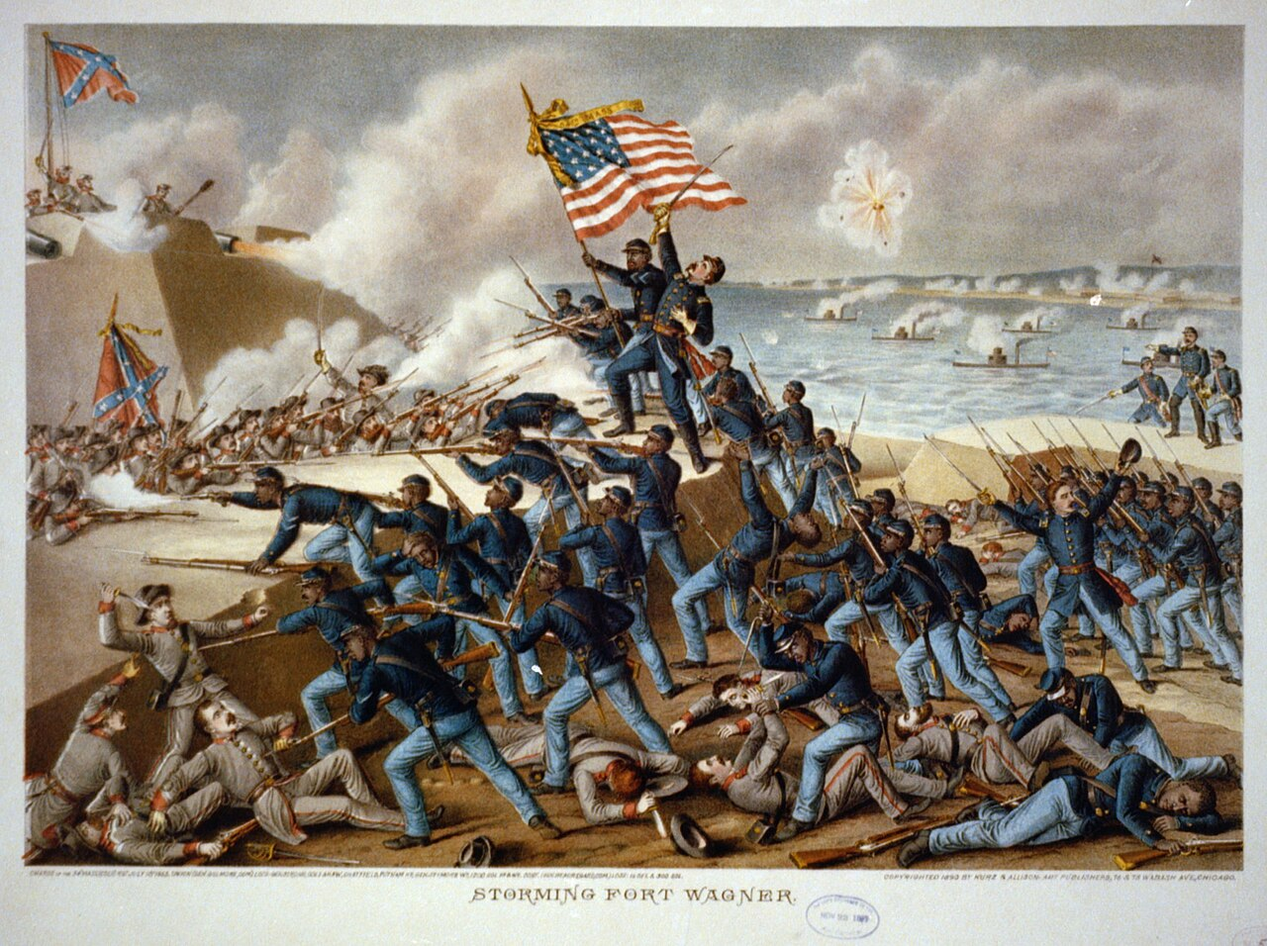
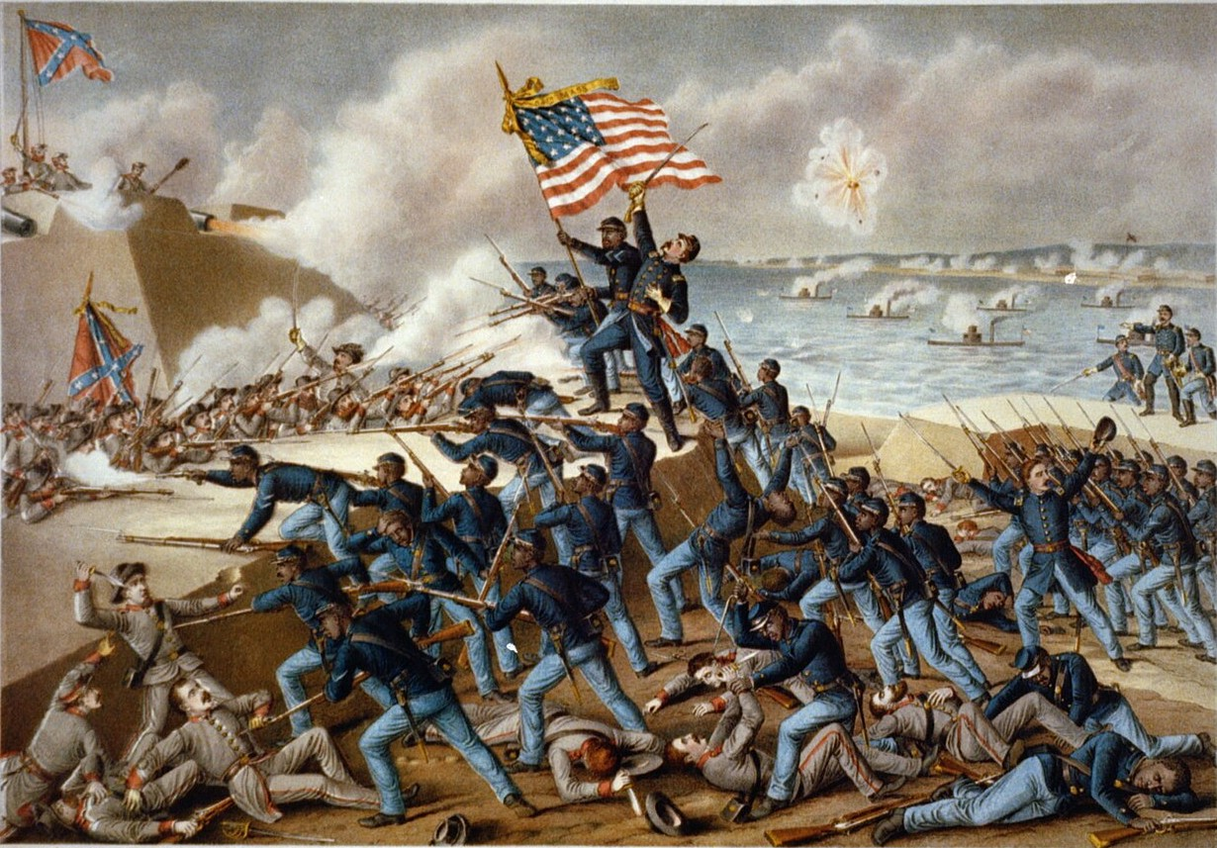
War UI + breadcrumb pass + drop in-prose [VERIFY] markers + war-build standard
- Remove 3 inline [VERIFY] editor notes that were shipping to readers
  (guerrilla-war Fort Pillow, war-within-north McClellan + Lincoln quotes);
  prose already paraphrased, the bracket was an author reminder.
- Fix slavery-cotton smart-quote delimiters that broke the build.
- ACW home: search input 16px (stop iOS focus-zoom); crop the Storming Fort
  Wagner hero to the bare painting (drop the cream mat + title, match F&I).
- Breadcrumb (all wars, config-driven): theatre rungs link to the war home
  with that theatre selected + scrolled (not the first battle); underline link
  entries; tint the war-name + theatre-name rungs/options their identity colour.
- audits/war-build-standard.md: one consolidated "how a war is built" doc.

diff --git a/src/app/war-civil-war/off-the-battlefield/war-within-north/page.tsx b/src/app/war-civil-war/off-the-battlefield/war-within-north/page.tsx
@@ -88,7 +88,7 @@ const NARR: Record<string, Narr> = {
       { p: `The Democrats, scenting a winnable election against an unpopular wartime president, gathered in Chicago at the end of August 1864 and promptly nominated themselves into a contradiction they could not escape.` },
       { p: `The convention met from August 29 to 31. Its platform (the official statement of what the party stood for) contained a peace plank (a single specific position within that larger platform) that was, in effect, a Copperhead document, written by Vallandigham himself, who had slipped back from exile and was now a force on the convention floor. The plank's decisive clause declared the war a failure outright:` },
       { p: `"...after four years of failure to restore the Union by the experiment of war... justice, humanity, liberty, and the public welfare demand that immediate efforts be made for a cessation of hostilities..."`, q: true },
-      { p: `The Democrats had, on paper, committed themselves to declaring the war a failure and seeking an immediate cease-fire. And then they nominated, to run on that platform, a man who did not believe a word of it: **George B. McClellan**, Democrat and former Union general. "Little Mac" had commanded the Army of the Potomac (the Union's main army in the Eastern theater, the force charged with taking Richmond and ending the war in the East), and had been a genuine popular favorite among the troops before Lincoln relieved him for chronic slowness. His running mate was George H. Pendleton of Ohio, a peace man. The contradiction was glaring and fatal: McClellan was a *War* Democrat, a man who wanted to keep fighting until the Union was restored, running on a platform that called the war a failure and demanded it stop. McClellan tried to resolve it the only way he could, by publicly rejecting (repudiating) his own platform: in his acceptance letter he refused the peace plank, insisting the Union must be preserved and that he could not tell the soldiers who had bled that their sacrifices had been in vain. [VERIFY exact wording of McClellan's acceptance letter before any verbatim quotation.] The result was a ticket at war with itself, a peace platform topped by a war candidate, which is a hard thing to sell to voters trying to decide one clear question.` },
+      { p: `The Democrats had, on paper, committed themselves to declaring the war a failure and seeking an immediate cease-fire. And then they nominated, to run on that platform, a man who did not believe a word of it: **George B. McClellan**, Democrat and former Union general. "Little Mac" had commanded the Army of the Potomac (the Union's main army in the Eastern theater, the force charged with taking Richmond and ending the war in the East), and had been a genuine popular favorite among the troops before Lincoln relieved him for chronic slowness. His running mate was George H. Pendleton of Ohio, a peace man. The contradiction was glaring and fatal: McClellan was a *War* Democrat, a man who wanted to keep fighting until the Union was restored, running on a platform that called the war a failure and demanded it stop. McClellan tried to resolve it the only way he could, by publicly rejecting (repudiating) his own platform: in his acceptance letter he refused the peace plank, insisting the Union must be preserved and that he could not tell the soldiers who had bled that their sacrifices had been in vain. The result was a ticket at war with itself, a peace platform topped by a war candidate, which is a hard thing to sell to voters trying to decide one clear question.` },
       { h: `Atlanta, the soldier vote, and 212 to 21`, eyebrow: `Turning point` },
       { fig: '/war-img/war-within-north-soldiers-voting.jpg', cap: `The most remarkable vote of the whole election. Pennsylvania soldiers of the Army of the James line up outside their tents to cast ballots in November 1864 — the army that could have ended Lincoln's power simply by voting him out instead chose, overwhelmingly, to keep the man sending it into battle. 1864 was the first U.S. election with widespread field voting, and the men with the most reason to be sick of the war re-elected the man waging it.`, credit: `William Waud · wood engraving, *Harper's Weekly* · 1864 · Library of Congress, Prints & Photographs Division (via Wikimedia Commons) · public domain` },
       { p: `And then, within days of the Democrats adopting a platform that declared the war a failure, the war stopped looking like a failure.` },
@@ -99,7 +99,7 @@ const NARR: Record<string, Narr> = {
       { p: `McClellan carried only three states, Kentucky, Delaware, and New Jersey, for 21 electoral votes against Lincoln's 212. Turnout ran near 74 percent of eligible voters, an astonishing figure for a country at war with itself. And the milestones stacked up: Lincoln was the first president reelected since Andrew Jackson in 1832, the first Northern president ever reelected, and the winner of the first wartime presidential election since 1812. The republic had looked its incumbent in the eye in the middle of a civil war and chosen to keep him. The sealed envelope Lincoln had pressed on his cabinet back in the worst of August, the one that began "it seems exceedingly probable that this Administration will not be re-elected," turned out to be the private record of a defeat that never came.` },
       { h: `What the ballot box proved`, eyebrow: `Consequence` },
       { p: `Step back from the vote counts, because the deepest fact about the election of 1864 is not who won. It is that it happened at all.` },
-      { p: `In the middle of the bloodiest war in its history, a republic held a free, contested, regularly scheduled presidential election. There was a real opposition party. There was a peace platform openly calling the war a failure. There were anti-administration newspapers. There was an incumbent who fully expected to be thrown out, who had quietly pledged in a sealed envelope to accept the result and hand over power, and who held the election *on schedule* when postponing it under emergency powers would have been the easiest thing in the world to justify. The army voted and went back to its camps. The losing side conceded. Lincoln himself, the day after the result was clear, framed what had just been tested: whether a government of the people could sustain a great national election in the middle of a great civil war, and whether such a government was strong enough to maintain its own existence without being too strong for the liberties of its people. [VERIFY exact wording from the *Collected Works*, Response to a Serenade, November 10, 1864, before any verbatim quotation.] That question had now been answered in the affirmative, narrowly, and at a cost, but answered.` },
+      { p: `In the middle of the bloodiest war in its history, a republic held a free, contested, regularly scheduled presidential election. There was a real opposition party. There was a peace platform openly calling the war a failure. There were anti-administration newspapers. There was an incumbent who fully expected to be thrown out, who had quietly pledged in a sealed envelope to accept the result and hand over power, and who held the election *on schedule* when postponing it under emergency powers would have been the easiest thing in the world to justify. The army voted and went back to its camps. The losing side conceded. Lincoln himself, the day after the result was clear, framed what had just been tested: whether a government of the people could sustain a great national election in the middle of a great civil war, and whether such a government was strong enough to maintain its own existence without being too strong for the liberties of its people. That question had now been answered in the affirmative, narrowly, and at a cost, but answered.` },
       { p: `And the cost matters. The same North that held that election had also suspended habeas corpus, arrested more than thirteen thousand civilians by military authority, tried civilians before panels of army officers, banished a congressman into the enemy's country for a speech, and shut down a major newspaper. Those things really happened, and the case against them was not paranoid. But the same government also reversed its own worst suppression when the *Chicago Times* was shut down, pulled its general back from imprisoning Vallandigham, and ultimately submitted the whole military-commission practice to the cold judgment of the Supreme Court, which curbed it in *Milligan*. So the honest verdict is a paradox, and the right move is to sit with it rather than resolve it cheaply. The war tested whether a democracy could survive both fierce internal dissent *and* a wartime election without hardening into a dictatorship. It did genuine damage to its own liberties in the testing. And it passed, narrowly, imperfectly, and without ever quite settling the argument about how close it came.` },
     ],
     meanwhile: {

diff --git a/src/app/war-civil-war/off-the-battlefield/guerrilla-war/page.tsx b/src/app/war-civil-war/off-the-battlefield/guerrilla-war/page.tsx
@@ -32,7 +32,7 @@ const NARR: Record<string, Narr> = {
       { fig: '/war-img/guerrilla-war-forrest.jpg', cap: `Major General Nathan Bedford Forrest — a Memphis slave trader before the war, a commissioned Confederate cavalry general during it. The man who commanded at Fort Pillow was no outlaw in the brush; he was regular army, which is exactly what makes the killing there so hard to explain away. A witness from his own command said Forrest gave the order to shoot the surrendering men down; Forrest denied it; the question has never closed. What is not in question is what he became after the war.`, credit: `Unidentified photographer · photograph · before 1877 · Wikimedia Commons · public domain` },
       { p: `On the afternoon of April 12, 1864, on a bluff above the Mississippi River in Lauderdale County, Tennessee, about 40 miles (64 km) north of Memphis, the irregular war's defining cruelty was committed by a regular army, in broad daylight, and the nation got its emblem of what no quarter against Black men looked like. The place was **Fort Pillow.**` },
       { p: `Set the scene. The fort sat on high ground over the river and was held by a Union **garrison** (the body of troops stationed to defend a fixed position) of roughly 600 men, and that garrison's makeup is the whole story of the day. About half of it was Black: a battalion of the 6th U.S. Colored Heavy Artillery and a section of the 2nd U.S. Colored Light Artillery, men of the **United States Colored Troops** (the federal regiments of Black soldiers, most of them recently escaped or freed from slavery). The other half was white: the 13th (West) Tennessee Cavalry, Unionist Tennesseans, many of them former Confederates who had switched sides, which made them, in the eyes of the attackers, traitors. So the men inside the fort were, to the Confederates closing in around it, the two most hated kinds of enemy the war produced: armed Black men, and white Southerners who had turned their coats. Command of the garrison fell first to Major Lionel F. Booth, and when a sharpshooter killed Booth early in the fighting, it passed to Major William F. Bradford, who led the white Tennessee battalion.` },
-      { p: `The Confederate force surrounding them, roughly 1,500 to 2,500 cavalry (sources vary), was commanded by Major General **Nathan Bedford Forrest**, one of the war's most feared cavalry raiders, a self-made Memphis slave trader and planter before the war who had risen to general on raw fighting ability. By mid-afternoon Forrest's men had taken the high ground around the fort, and the garrison was effectively trapped with the river at its back. At about 3:30 in the afternoon Forrest sent in a demand for surrender, giving Bradford 20 minutes to answer. The demand, as it comes down to us, promised that the garrison would be **treated as prisoners of war**, but warned that if the offer was refused, Forrest "cannot be responsible for the fate of your command." [VERIFY exact wording against the *Official Records* before quoting verbatim.] That phrase (*cannot be responsible*) would sit at the center of everything argued afterward. Bradford refused. The Confederates stormed the fort.` },
+      { p: `The Confederate force surrounding them, roughly 1,500 to 2,500 cavalry (sources vary), was commanded by Major General **Nathan Bedford Forrest**, one of the war's most feared cavalry raiders, a self-made Memphis slave trader and planter before the war who had risen to general on raw fighting ability. By mid-afternoon Forrest's men had taken the high ground around the fort, and the garrison was effectively trapped with the river at its back. At about 3:30 in the afternoon Forrest sent in a demand for surrender, giving Bradford 20 minutes to answer. The demand, as it comes down to us, promised that the garrison would be **treated as prisoners of war**, but warned that if the offer was refused, Forrest "cannot be responsible for the fate of your command." That phrase (*cannot be responsible*) would sit at the center of everything argued afterward. Bradford refused. The Confederates stormed the fort.` },
       { p: `The attackers overran the works quickly, and what happened next is the reason the word "Fort Pillow" still carries weight a century and a half later. The fort sat with its back to a bluff and the Mississippi below it; there was nowhere for the garrison to run. When the resistance broke, men threw down their muskets and raised their hands on open ground above the water, and the killing did not stop. By the testimony of the survivors, men who tried to surrender were shot and bayoneted anyway (Black soldiers above all), some on the slope down to the river, some in the water itself, and some accounts have men burned or buried alive. Survivors said the Confederates came on shouting "No quarter! No quarter!" Major Bradford himself appears to have been killed *after* he surrendered.` },
       { p: `Now the numbers, because at Fort Pillow the numbers are not background: they are the proof. Of the roughly 600 defenders, close to 300 were killed. That alone is a staggering share of a garrison; battles did not usually kill half the losing side. But the damning figure is how those deaths split by race. About 70 percent of the white defenders survived the day. Only about 35 percent of the Black defenders did, half the survival rate of the men fighting beside them. Put it another way: of the Black soldiers, only around one in five was taken prisoner; of the white soldiers, around three in five. And set against the Union's nearly 300 dead, Forrest lost about 14 men killed. An assault that overruns a fort and kills nearly 300 defenders while losing 14 of its own has not fought a battle in the ordinary sense. A battle that kills two-thirds of one race of defenders and a third of the other has selected its dead by skin. The asymmetry *is* the massacre. You do not need a confession to read it; the arithmetic confesses for everyone.` },
       { p: `The North read it immediately. The **Joint Committee on the Conduct of the War** (Congress's standing oversight committee, run by hard-line Republicans) sent investigators almost at once, led by Senator Benjamin Wade of Ohio and Representative Daniel Gooch of Massachusetts. They interviewed survivors and witnesses and, in a report published in May 1864, branded the event a massacre: "a massacre without parallel." Be clear-eyed about that report, though, the way the honest histories are: Wade and Gooch were partisans with a political stake, and their framing was wartime propaganda as much as forensics, written to inflame the North as well as to record the truth. The committee's *rhetoric* should be read as a political document. But the committee's *core finding* does not depend on its rhetoric at all, because the casualty figures (gathered independently, confirmed by the killing's own arithmetic) establish the massacre on their own. A propagandist can exaggerate a true thing. The true thing here was a massacre.` },

diff --git a/src/components/mode/theatre-page.tsx b/src/components/mode/theatre-page.tsx
@@ -72,7 +72,10 @@ const BAND_COLOR: Record<string, string> = Object.fromEntries(WAR_BANDS.map(b =>
 // it unchanged. `civilWarCrumbs` below is a thin Civil-War-bound delegate, so the ~45
 // Civil War leaf pages keep calling it and their output is byte-identical.
 export function warCrumbs(cfg: WarConfig, { lane, battleId }: { lane?: string; battleId?: string } = {}): Crumb[] {
-  const warOptions: CrumbOption[] = WAR_EVENTS.map(w => ({ label: w.name, href: w.href, disabled: !w.href, color: BAND_COLOR[w.band] }))
+  const warOptions: CrumbOption[] = WAR_EVENTS.map(w => ({ label: w.name, href: w.href, disabled: !w.href, color: BAND_COLOR[w.band], tint: true }))
+  // This war's signature colour (matches its own option dot) for the war rung tint.
+  const selfWar = WAR_EVENTS.find(w => w.href === cfg.routeBase)
+  const warColor = (selfWar && BAND_COLOR[selfWar.band]) || cfg.accent
   const laneOf = (id?: string) => (id ? cfg.lanes.find(l => l.id === id) : undefined)
   const laneDot = (id: string) => laneOf(id)?.color?.dot
   const offfieldDot = cfg.lanes.find(l => l.kind === 'offfield')?.color?.dot
@@ -82,12 +85,15 @@ export function warCrumbs(cfg: WarConfig, { lane, battleId }: { lane?: string; b
   // landing page; a battle-grouping lane jumps to its earliest built battle.
   const firstHref = (id: string): string | undefined => {
     const ln = laneOf(id)
-    // story / offfield / phase lanes keep their own landing page; a geographic
-    // theatre lane (CW) jumps to its earliest built battle (theatre pages retired).
+    // story / offfield / phase lanes keep their own landing page.
     if (ln && (ln.kind === 'story' || ln.kind === 'offfield' || ln.kind === 'phase')) return ln.ready ? ln.href : undefined
+    // a geographic theatre lane links back to the war home with that theatre
+    // selected + scrolled into view (the standalone theatre pages are retired),
+    // not the theatre's first battle.
+    if (ln && ln.kind === 'theatre') return `${cfg.routeBase}?theatre=${id}`
     return cfg.battles.filter(b => b.theatre === id && b.href).sort((a, b) => (a.year * 100 + a.m) - (b.year * 100 + b.m))[0]?.href
   }
-  const laneOptions: CrumbOption[] = cfg.lanes.map(l => { const h = firstHref(l.id); return { label: l.label, href: h, disabled: !h, color: l.color?.dot } })
+  const laneOptions: CrumbOption[] = cfg.lanes.map(l => { const h = firstHref(l.id); return { label: l.label, href: h, disabled: !h, color: l.color?.dot, tint: l.kind === 'theatre' } })
   const activeLane = laneOf(lane)
 
   // Filtered to the active lane when one is chosen; the off-field lane (or no lane)
@@ -132,8 +138,8 @@ export function warCrumbs(cfg: WarConfig, { lane, battleId }: { lane?: string; b
   }
 
   return [
-    { label: cfg.crumbShort, short: cfg.crumbShort, color: onWarHome ? cfg.accent : undefined, href: cfg.routeBase, options: warOptions, currentLabel: cfg.crumbFull },
-    { label: activeLane?.label ?? cfg.laneNoun, short: activeLane ? activeLane.short : undefined, href: lane ? firstHref(lane) : undefined, options: laneOptions, active: !!lane && !battleId },
+    { label: cfg.crumbShort, short: cfg.crumbShort, color: onWarHome ? cfg.accent : warColor, href: cfg.routeBase, options: warOptions, currentLabel: cfg.crumbFull },
+    { label: activeLane?.label ?? cfg.laneNoun, short: activeLane ? activeLane.short : undefined, color: activeLane?.color?.dot, href: lane ? firstHref(lane) : undefined, options: laneOptions, active: !!lane && !battleId },
     { label: battleLabel, currentLabel: battleFull, options: activeLane?.kind === 'story' ? chapterJump : jump, active: !!battleId,
       scopeToggle: cfg.geoScopeToggle && geoLane ? { scopedLabel: activeLane?.short ?? activeLane?.label ?? cfg.laneNoun, allOptions: jumpAll } : undefined },
   ]

diff --git a/src/components/mode/war-chrome.tsx b/src/components/mode/war-chrome.tsx
@@ -63,6 +63,7 @@ export interface CrumbOption {
   href?: string
   disabled?: boolean
   color?: string   // colored dot (e.g. theatre-coded jump list)
+  tint?: boolean   // also paint the label text in `color` (war + theatre name rows)
   heading?: boolean // render as a non-interactive section label, not a row
   date?: string    // shown on the right of a built/linkable row (when it happened)
   accentBar?: string // thread accent: a square row with a colored left bar
@@ -289,7 +290,7 @@ function CrumbDropdown({ crumb, chip, faint, muted, accent, emphasized, maxLabel
   return (
     <span ref={wrapRef} style={{ position: 'relative', flexShrink: 0, minWidth: 0, display: 'inline-flex', alignItems: 'center' }}>
       {canSplit
-        ? <a href={crumb.href} style={labelStyle}>{label}</a>
+        ? <a href={crumb.href} style={{ ...labelStyle, textDecoration: 'underline', textUnderlineOffset: 2 }}>{label}</a>
         : <button onClick={() => setOpen(o => !o)} aria-expanded={open} style={{ ...labelStyle, display: 'inline-flex', alignItems: 'center' }}>{label}</button>}
       {/* short vertical divider between the link text and the arrow dot */}
       {canSplit && <span aria-hidden style={{ flexShrink: 0, width: 1, height: 14, margin: '0 5px', background: alpha('#888', 0.34) }} />}
@@ -333,13 +334,13 @@ function CrumbDropdown({ crumb, chip, faint, muted, accent, emphasized, maxLabel
               const barStyle: React.CSSProperties = o.accentBar ? { borderRadius: 0, borderLeft: `3px solid ${o.accentBar}`, marginBottom: 4 } : {}
               if (o.disabled || !o.href) return (
                 <div key={`o${oi}`} style={{ display: 'flex', alignItems: 'center', justifyContent: 'space-between', gap: 8, padding: '7px 10px', fontFamily: SANS, fontSize: 12, color: faint, borderRadius: 7, cursor: 'default', ...barStyle }}>
-                  <span style={{ display: 'flex', alignItems: 'center', gap: 8, minWidth: 0 }}>{lead}<span style={{ overflow: 'hidden', textOverflow: 'ellipsis', whiteSpace: 'nowrap' }}>{o.label}</span></span>
+                  <span style={{ display: 'flex', alignItems: 'center', gap: 8, minWidth: 0 }}>{lead}<span style={{ overflow: 'hidden', textOverflow: 'ellipsis', whiteSpace: 'nowrap', color: o.tint ? o.color : undefined }}>{o.label}</span></span>
                   <span style={{ flexShrink: 0, fontFamily: SANS, fontSize: 8, fontWeight: 700, letterSpacing: 0.7, textTransform: 'uppercase', color: faint, border: `1px solid ${faint}`, borderRadius: 999, padding: '1px 6px' }}>soon</span>
                 </div>
               )
               return (
                 <a key={`o${oi}`} href={o.href} onClick={() => setOpen(false)} style={{ display: 'flex', alignItems: 'center', justifyContent: 'space-between', gap: 8, padding: '7px 10px', fontFamily: SANS, fontSize: 12, fontWeight: current ? 700 : 500, color: 'var(--foreground)', textDecoration: 'none', borderRadius: 7, background: current ? chip : 'transparent', ...barStyle }}>
-                  <span style={{ display: 'flex', alignItems: 'center', gap: 8, minWidth: 0 }}>{lead}<span style={{ overflow: 'hidden', textOverflow: 'ellipsis', whiteSpace: 'nowrap' }}>{o.label}</span></span>
+                  <span style={{ display: 'flex', alignItems: 'center', gap: 8, minWidth: 0 }}>{lead}<span style={{ overflow: 'hidden', textOverflow: 'ellipsis', whiteSpace: 'nowrap', color: o.tint ? o.color : undefined, textDecoration: 'underline', textUnderlineOffset: 2 }}>{o.label}</span></span>
                   {current
                     ? <span style={{ flexShrink: 0, color: accent, fontWeight: 700 }}>✓</span>
                     : o.date

diff --git a/src/app/war-civil-war/off-the-battlefield/slavery-cotton/page.tsx b/src/app/war-civil-war/off-the-battlefield/slavery-cotton/page.tsx
@@ -31,7 +31,7 @@ const NARR: Record<string, Narr> = {
       { h: 'Eli Whitney’s box', eyebrow: 'Turning point' },
       { p: `In 1793, a Massachusetts-born inventor named Eli Whitney (pronounced “WIT-nee”), recently graduated from Yale and visiting a Georgia plantation, built a device to do exactly that. His cotton gin was almost embarrassingly simple: a hand crank pulled the cotton fiber through a comb-like grid of slender wires, set too narrow to let the seeds pass, so the fiber was dragged free and the seeds were left behind. Whitney applied for the patent on October 28, 1793, and it was granted on March 14, 1794.` },
       { p: `The math of it was staggering. A single hand laborer could clean about one pound of short-staple cotton in ten hours. Whitney’s gin could clean roughly fifty pounds of fiber a day. The seed bottleneck, the one thing standing between the South and a cotton fortune, simply vanished.` },
-      { fig: ‘/war-img/cotton-gin.jpg’, cap: ‘Enslaved people working an early cotton gin while white planters look on: the machine at the center of the boom, and the human labor it multiplied rather than spared.’, credit: ‘William L. Sheppard, “The First Cotton-Gin,” Harper’s Weekly, December 18, 1869 · public domain’ },
+      { fig: '/war-img/cotton-gin.jpg', cap: `Enslaved people working an early cotton gin while white planters look on: the machine at the center of the boom, and the human labor it multiplied rather than spared.`, credit: `William L. Sheppard, “The First Cotton-Gin,” Harper’s Weekly, December 18, 1869 · public domain` },
 
       { h: 'The machine that backfired' },
       { fig: '/war-img/slavery-cotton-plantation-hands.jpg', cap: `The "hands" the boom demanded were people. Enslaved men, women, and children gathered around a cart at James Hopkinson's cotton plantation on Edisto Island, South Carolina, photographed in 1862, one of the earliest real photographs of plantation slavery in the Deep South, made only because Union troops had just taken this stretch of coast.`, credit: `Henry P. Moore · albumen print · 1862 · Library of Congress, Prints & Photographs Division · public domain` },
@@ -90,7 +90,7 @@ const NARR: Record<string, Narr> = {
     meanwhile: {
       region: 'the nation’s politics',
       title: 'The Road to War',
-      body: ‘Cotton built the wealth and the certainty; the country’s politics had to contain them, and couldn’t. Compromise after compromise tried to settle whether slavery would spread into the West, each one holding for a while and then breaking. That long unraveling ran from the halls of Congress to violence on the frontier.’,
+      body: `Cotton built the wealth and the certainty; the country’s politics had to contain them, and couldn’t. Compromise after compromise tried to settle whether slavery would spread into the West, each one holding for a while and then breaking. That long unraveling ran from the halls of Congress to violence on the frontier.`,
     },
   },
 }

diff --git a/src/app/war-civil-war/war-skin.css b/src/app/war-civil-war/war-skin.css
@@ -108,7 +108,7 @@
 .war-skin .p-credit { font: 400 10px/1.4 var(--mono); letter-spacing: .02em; color: var(--muted); padding: 9px 18px; background: var(--paper); }
 
 /* ---- sticky sub-nav (two seg rows + filter) ---- */
-.war-skin .p-subnav { position: sticky; top: var(--hdr); z-index: 20; background: var(--paper); border-bottom: 1px solid var(--line-soft); padding-bottom: 12px; }
+.war-skin .p-subnav { position: sticky; top: var(--hdr); scroll-margin-top: var(--hdr); z-index: 20; background: var(--paper); border-bottom: 1px solid var(--line-soft); padding-bottom: 12px; }
 /* on pages with the sticky breadcrumb above it (the battle dossier), the tab bar
    sticks below that 50px bar; the home has no breadcrumb so it keeps top:var(--hdr) */
 .war-skin .p-subnav.below-crumb { top: calc(var(--hdr) + 50px); }
@@ -126,7 +126,8 @@
 
 .war-skin .p-bsearch { display: flex; align-items: center; gap: 8px; margin: 10px 14px 0; background: var(--chip); border: 1px solid var(--line-soft); border-radius: 11px; padding: 10px 12px; color: var(--muted); }
 .war-skin .p-bsearch svg { flex: 0 0 auto; }
-.war-skin .p-bsearch input { flex: 1; min-width: 0; border: 0; background: transparent; outline: none; color: var(--ink); font: 500 14px/1.1 var(--sans); }
+/* 16px min font-size keeps iOS Safari from auto-zooming when the field is focused. */
+.war-skin .p-bsearch input { flex: 1; min-width: 0; border: 0; background: transparent; outline: none; color: var(--ink); font: 500 16px/1.1 var(--sans); }
 .war-skin .p-bsearch input::placeholder { color: var(--muted); }
 .war-skin .p-bsearch .clr { flex: 0 0 auto; display: flex; align-items: center; justify-content: center; color: var(--muted); width: 22px; height: 22px; border-radius: 50%; background: var(--paper-3); }
 

diff --git a/src/app/war-civil-war/page.tsx b/src/app/war-civil-war/page.tsx
@@ -309,6 +309,18 @@ export default function WarHome() {
   const [bq, setBq] = useState('')
   const [thFilter, setThFilter] = useState('All')
 
+  // Deep link from the breadcrumb "Theatre" crumb: /war-civil-war?theatre=east
+  // lands on the Theatres tab with that theatre's chip selected, scrolled to the
+  // tab bar.
+  useEffect(() => {
+    const th = new URLSearchParams(window.location.search).get('theatre')
+    if (th && THEATRE[th]) {
+      setThFilter(th)
+      setTab('theatres')
+      requestAnimationFrame(() => document.querySelector('.p-subnav')?.scrollIntoView({ block: 'start' }))
+    }
+  }, [])
+
   return (
     <div className="war-skin">
       {/* sticky header */}

diff --git a/audits/war-build-standard.md b/audits/war-build-standard.md
@@ -1,0 +1,121 @@
+# Building a War — the one standard
+
+The single source of truth for **how a war vertical is built**, end to end. It
+consolidates rules that had drifted across per-war sessions and stacked memory
+amendments. When a third war is built, follow this — do not re-derive the rules.
+
+Two things are "standardized" here, and they are different:
+1. **The recipe + voice** (this doc + the gated pipeline) — frozen and ready now.
+2. **The technical build** (one content format + one generator for every surface) —
+   still fragmented across the two built wars; unification is a planned project, not
+   yet done. See `audits/war-second-war-plan.md`. Until then, the **Content systems**
+   table below tells you which file to edit for which surface.
+
+---
+
+## 1. Reader surfaces — all of them are content, all of them are gated
+
+A war ships these reader-facing surfaces. **Every one** runs through the same
+fact-check + storytelling critics; "it's just a caption" is exactly how wrong facts
+ship (per the app-wide pipeline mandate in CLAUDE.md):
+
+- **War-story chapters** — the connected military through-line (CW: 5 "How the War
+  Happened" chapters; F&I: the 5 phase narratives).
+- **Off-the-battlefield themes** — causes, politics, tech, home front, emancipation,
+  the reckoning (CW: 17; F&I: 8). The *causes / why-we-fought* layer is co-primary
+  with battles, not a footnote (see `project_war_causes_first`).
+- **Battle dossiers + section narratives** — each battle is its own full story
+  (what came before / the battle / what it meant), plus commander bios, outcome,
+  section blurbs, stats, sides, maps.
+- **Commander (cast) arcs**, theatre spines, the war home (standfirst + Facts tab),
+  and **every caption, credit, map label, and "meanwhile" handoff** on all of the above.
+
+---
+
+## 2. Voice rules — settled, frozen
+
+These are the house voice for **all** war reading prose. They are the same rules that
+were applied to F&I and then carried to the Civil War (2026-06-06).
+
+1. **No meta-narration.** Tell the story; never tell the reader what the
+   chapter/section/app is *about* or how it's structured, and never point at sibling
+   sections ("this is the first chapter of…", "it links down to those", "the shape of
+   X is…", "the USCT section of this app", "we will end on…"). Open straight into the
+   strongest narrative sentence. See `feedback_no_meta_narration`.
+2. **No em-dashes in prose.** Commas, parentheses, colons, or restructure — grammatical
+   per sentence, never a blanket comma swap. The only em-dashes that stay are inside
+   **verbatim historical quotes** and **proper artwork/document titles**. Captions and
+   credits are prose too, and follow the same rule. See `feedback_war_voice_restraint`.
+3. **Side-tags: battle content only, combatants only, exempt just the top 4.** Tag a
+   combatant's side on first mention per section in battle content; NO tags in the
+   reading narrative (chapters + themes). Exempt only Grant/Lee/Davis/Lincoln;
+   politicians/civilians never tagged. Full rule + disambiguation in
+   `feedback_war_person_side_tags`.
+4. **Name the cause in the section's own prose** (Civil War: slavery, or the framing
+   gate fails — `feedback_name_the_cause`).
+5. **American English** spelling, everywhere (`WRITING-RULES.md`).
+6. **No editorial markers in shipped prose** — `[VERIFY]`, `[REV]`, `[TODO]`, beat-map
+   notes, fact-gate flags live in the file's FACT LEDGER tail (cut by the builder),
+   never inline in reader text. (Two leaks were caught and fixed 2026-06-06: the
+   assassination beat-map and three inline `[VERIFY]` quote flags.)
+
+---
+
+## 3. Media + maps
+
+- **Born-verified images** — every photo/print confirmed against its real
+  page/image at the moment it's written; public-domain or properly-licensed only;
+  caption states the real date/source. A representative era artifact beats blank;
+  reject is the last resort. Hero/card aspect must match the frame (no portrait in a
+  landscape band — `feedback_hero_must_be_landscape`).
+- **Maps** — many per battle, one per geographic beat; labels match the prose's named
+  places; big solid legible fonts; tap-to-zoom; dotted real-geometry state outlines
+  for strategic/theatre/home maps (`feedback_war_maps_dense_legible`,
+  `feedback_war_map_styles`). ChatGPT beats Gemini for hard geography; name each label
+  exactly once (`feedback_map_prompt_label_once`). 3-attempt cap, then hand to the
+  user (`feedback_map_three_attempt_cap`).
+
+---
+
+## 4. Authoring recipe (the gate)
+
+Per-section: **fact pack → author (Opus) → fact-check + storytelling critic (Sonnet,
+parallel) → revise → integrate**, with 2 hard gates (story + facts). Maps are a gate
+at creation time. Full spec: `audits/war-content-pipeline.md`. The mandate
+(CLAUDE.md): no section ships author-and-hope; a passing draft is not a gated draft.
+
+---
+
+## 5. Content systems map — which file to edit (until unification)
+
+The two built wars store prose **four different ways**. Edit the source, not the
+generated output.
+
+| Surface | Source to edit | Generator → live page |
+|---|---|---|
+| CW war-story chapters (5) | `audits/war-pipeline/<slug>-final.md` | `node scripts/_build-war-themes.mjs` → `how-the-war-was-fought/<slug>/page.tsx` |
+| CW themes (14 of 17) | `audits/war-pipeline/<slug>-final.md` (+ `-figures.json`) | `_build-war-themes.mjs` → `off-the-battlefield/<slug>/page.tsx` |
+| CW themes (3: slavery-cotton, freedom-struggle, emancipation) | **hand-written** `off-the-battlefield/<slug>/page.tsx` | none — edit the page directly |
+| CW battle dossier + sections (46) | **live** `<theatre>/<battle>/page.tsx` + `s/[section]/section-narrative.tsx` | none — the `-final.md` drafts are STALE; edit the `.tsx` |
+| F&I chapters + themes | `phase-narratives.ts` / `off-the-battlefield/theme-narratives.ts` (block-array TS) | rendered live by `battle-reader.tsx` |
+| Breadcrumb / chrome (all wars) | `src/components/mode/war-chrome.tsx` + `theatre-page.tsx` (`warCrumbs`, config-driven) | live |
+
+Notes:
+- The `_build-war-themes.mjs` builder ships prose VERBATIM up to the first
+  `## MEANWHILE HANDOFF` **or** `## FACT LEDGER` marker; everything after is internal.
+- Figure captions/credits live in `-figures.json` and inline in the builder config —
+  a **separate** surface from the `-final.md` prose (so a prose em-dash sweep does not
+  touch them; sweep captions explicitly).
+- The breadcrumb is fully config-driven (`warCrumbs(cfg)`): war-name + theatre-name
+  rungs/options are tinted their identity colour and link entries are underlined, for
+  **every** war automatically (add a war to the registry + `WAR_EVENTS` and it inherits).
+
+---
+
+## 6. Target (deferred): one system
+
+War #3 should NOT invent a fifth storage format. The intended end state is the F&I
+block-array model (clean TS data + one shared renderer) for every surface, with the
+hardcoded CW interior lifted into per-war `WarConfig`. Plan: `audits/war-second-war-plan.md`.
+Do this as its own project before war #3; it is not a blocker for voice/content work
+on the existing two.

diff --git a/audits/war-pipeline/war-within-north-final.md b/audits/war-pipeline/war-within-north-final.md
@@ -152,7 +152,7 @@ The convention met from August 29 to 31. Its platform (the official statement of
 
 > "...after four years of failure to restore the Union by the experiment of war... justice, humanity, liberty, and the public welfare demand that immediate efforts be made for a cessation of hostilities..."
 
-The Democrats had, on paper, committed themselves to declaring the war a failure and seeking an immediate cease-fire. And then they nominated, to run on that platform, a man who did not believe a word of it: **George B. McClellan**, Democrat and former Union general. "Little Mac" had commanded the Army of the Potomac (the Union's main army in the Eastern theater, the force charged with taking Richmond and ending the war in the East), and had been a genuine popular favorite among the troops before Lincoln relieved him for chronic slowness. His running mate was George H. Pendleton of Ohio, a peace man. The contradiction was glaring and fatal: McClellan was a *War* Democrat, a man who wanted to keep fighting until the Union was restored, running on a platform that called the war a failure and demanded it stop. McClellan tried to resolve it the only way he could, by publicly rejecting (repudiating) his own platform: in his acceptance letter he refused the peace plank, insisting the Union must be preserved and that he could not tell the soldiers who had bled that their sacrifices had been in vain. [VERIFY exact wording of McClellan's acceptance letter before any verbatim quotation.] The result was a ticket at war with itself, a peace platform topped by a war candidate, which is a hard thing to sell to voters trying to decide one clear question.
+The Democrats had, on paper, committed themselves to declaring the war a failure and seeking an immediate cease-fire. And then they nominated, to run on that platform, a man who did not believe a word of it: **George B. McClellan**, Democrat and former Union general. "Little Mac" had commanded the Army of the Potomac (the Union's main army in the Eastern theater, the force charged with taking Richmond and ending the war in the East), and had been a genuine popular favorite among the troops before Lincoln relieved him for chronic slowness. His running mate was George H. Pendleton of Ohio, a peace man. The contradiction was glaring and fatal: McClellan was a *War* Democrat, a man who wanted to keep fighting until the Union was restored, running on a platform that called the war a failure and demanded it stop. McClellan tried to resolve it the only way he could, by publicly rejecting (repudiating) his own platform: in his acceptance letter he refused the peace plank, insisting the Union must be preserved and that he could not tell the soldiers who had bled that their sacrifices had been in vain. The result was a ticket at war with itself, a peace platform topped by a war candidate, which is a hard thing to sell to voters trying to decide one clear question.
 
 ## Atlanta, the soldier vote, and 212 to 21
 
@@ -180,7 +180,7 @@ McClellan carried only three states, Kentucky, Delaware, and New Jersey, for 21 
 
 Step back from the vote counts, because the deepest fact about the election of 1864 is not who won. It is that it happened at all.
 
-In the middle of the bloodiest war in its history, a republic held a free, contested, regularly scheduled presidential election. There was a real opposition party. There was a peace platform openly calling the war a failure. There were anti-administration newspapers. There was an incumbent who fully expected to be thrown out, who had quietly pledged in a sealed envelope to accept the result and hand over power, and who held the election *on schedule* when postponing it under emergency powers would have been the easiest thing in the world to justify. The army voted and went back to its camps. The losing side conceded. Lincoln himself, the day after the result was clear, framed what had just been tested: whether a government of the people could sustain a great national election in the middle of a great civil war, and whether such a government was strong enough to maintain its own existence without being too strong for the liberties of its people. [VERIFY exact wording from the *Collected Works*, Response to a Serenade, November 10, 1864, before any verbatim quotation.] That question had now been answered in the affirmative, narrowly, and at a cost, but answered.
+In the middle of the bloodiest war in its history, a republic held a free, contested, regularly scheduled presidential election. There was a real opposition party. There was a peace platform openly calling the war a failure. There were anti-administration newspapers. There was an incumbent who fully expected to be thrown out, who had quietly pledged in a sealed envelope to accept the result and hand over power, and who held the election *on schedule* when postponing it under emergency powers would have been the easiest thing in the world to justify. The army voted and went back to its camps. The losing side conceded. Lincoln himself, the day after the result was clear, framed what had just been tested: whether a government of the people could sustain a great national election in the middle of a great civil war, and whether such a government was strong enough to maintain its own existence without being too strong for the liberties of its people. That question had now been answered in the affirmative, narrowly, and at a cost, but answered.
 
 And the cost matters. The same North that held that election had also suspended habeas corpus, arrested more than thirteen thousand civilians by military authority, tried civilians before panels of army officers, banished a congressman into the enemy's country for a speech, and shut down a major newspaper. Those things really happened, and the case against them was not paranoid. But the same government also reversed its own worst suppression when the *Chicago Times* was shut down, pulled its general back from imprisoning Vallandigham, and ultimately submitted the whole military-commission practice to the cold judgment of the Supreme Court, which curbed it in *Milligan*. So the honest verdict is a paradox, and the right move is to sit with it rather than resolve it cheaply. The war tested whether a democracy could survive both fierce internal dissent *and* a wartime election without hardening into a dictatorship. It did genuine damage to its own liberties in the testing. And it passed, narrowly, imperfectly, and without ever quite settling the argument about how close it came.
 

diff --git a/audits/war-pipeline/guerrilla-war-final.md b/audits/war-pipeline/guerrilla-war-final.md
@@ -36,7 +36,7 @@ On the afternoon of April 12, 1864, on a bluff above the Mississippi River in La
 
 Set the scene. The fort sat on high ground over the river and was held by a Union **garrison** (the body of troops stationed to defend a fixed position) of roughly 600 men, and that garrison's makeup is the whole story of the day. About half of it was Black: a battalion of the 6th U.S. Colored Heavy Artillery and a section of the 2nd U.S. Colored Light Artillery, men of the **United States Colored Troops** (the federal regiments of Black soldiers, most of them recently escaped or freed from slavery). The other half was white: the 13th (West) Tennessee Cavalry, Unionist Tennesseans, many of them former Confederates who had switched sides, which made them, in the eyes of the attackers, traitors. So the men inside the fort were, to the Confederates closing in around it, the two most hated kinds of enemy the war produced: armed Black men, and white Southerners who had turned their coats. Command of the garrison fell first to Major Lionel F. Booth, and when a sharpshooter killed Booth early in the fighting, it passed to Major William F. Bradford, who led the white Tennessee battalion.
 
-The Confederate force surrounding them, roughly 1,500 to 2,500 cavalry (sources vary), was commanded by Major General **Nathan Bedford Forrest**, one of the war's most feared cavalry raiders, a self-made Memphis slave trader and planter before the war who had risen to general on raw fighting ability. By mid-afternoon Forrest's men had taken the high ground around the fort, and the garrison was effectively trapped with the river at its back. At about 3:30 in the afternoon Forrest sent in a demand for surrender, giving Bradford 20 minutes to answer. The demand, as it comes down to us, promised that the garrison would be **treated as prisoners of war**, but warned that if the offer was refused, Forrest "cannot be responsible for the fate of your command." [VERIFY exact wording against the *Official Records* before quoting verbatim.] That phrase (*cannot be responsible*) would sit at the center of everything argued afterward. Bradford refused. The Confederates stormed the fort.
+The Confederate force surrounding them, roughly 1,500 to 2,500 cavalry (sources vary), was commanded by Major General **Nathan Bedford Forrest**, one of the war's most feared cavalry raiders, a self-made Memphis slave trader and planter before the war who had risen to general on raw fighting ability. By mid-afternoon Forrest's men had taken the high ground around the fort, and the garrison was effectively trapped with the river at its back. At about 3:30 in the afternoon Forrest sent in a demand for surrender, giving Bradford 20 minutes to answer. The demand, as it comes down to us, promised that the garrison would be **treated as prisoners of war**, but warned that if the offer was refused, Forrest "cannot be responsible for the fate of your command." That phrase (*cannot be responsible*) would sit at the center of everything argued afterward. Bradford refused. The Confederates stormed the fort.
 
 The attackers overran the works quickly, and what happened next is the reason the word "Fort Pillow" still carries weight a century and a half later. The fort sat with its back to a bluff and the Mississippi below it; there was nowhere for the garrison to run. When the resistance broke, men threw down their muskets and raised their hands on open ground above the water, and the killing did not stop. By the testimony of the survivors, men who tried to surrender were shot and bayoneted anyway (Black soldiers above all), some on the slope down to the river, some in the water itself, and some accounts have men burned or buried alive. Survivors said the Confederates came on shouting "No quarter! No quarter!" Major Bradford himself appears to have been killed *after* he surrendered.
 
